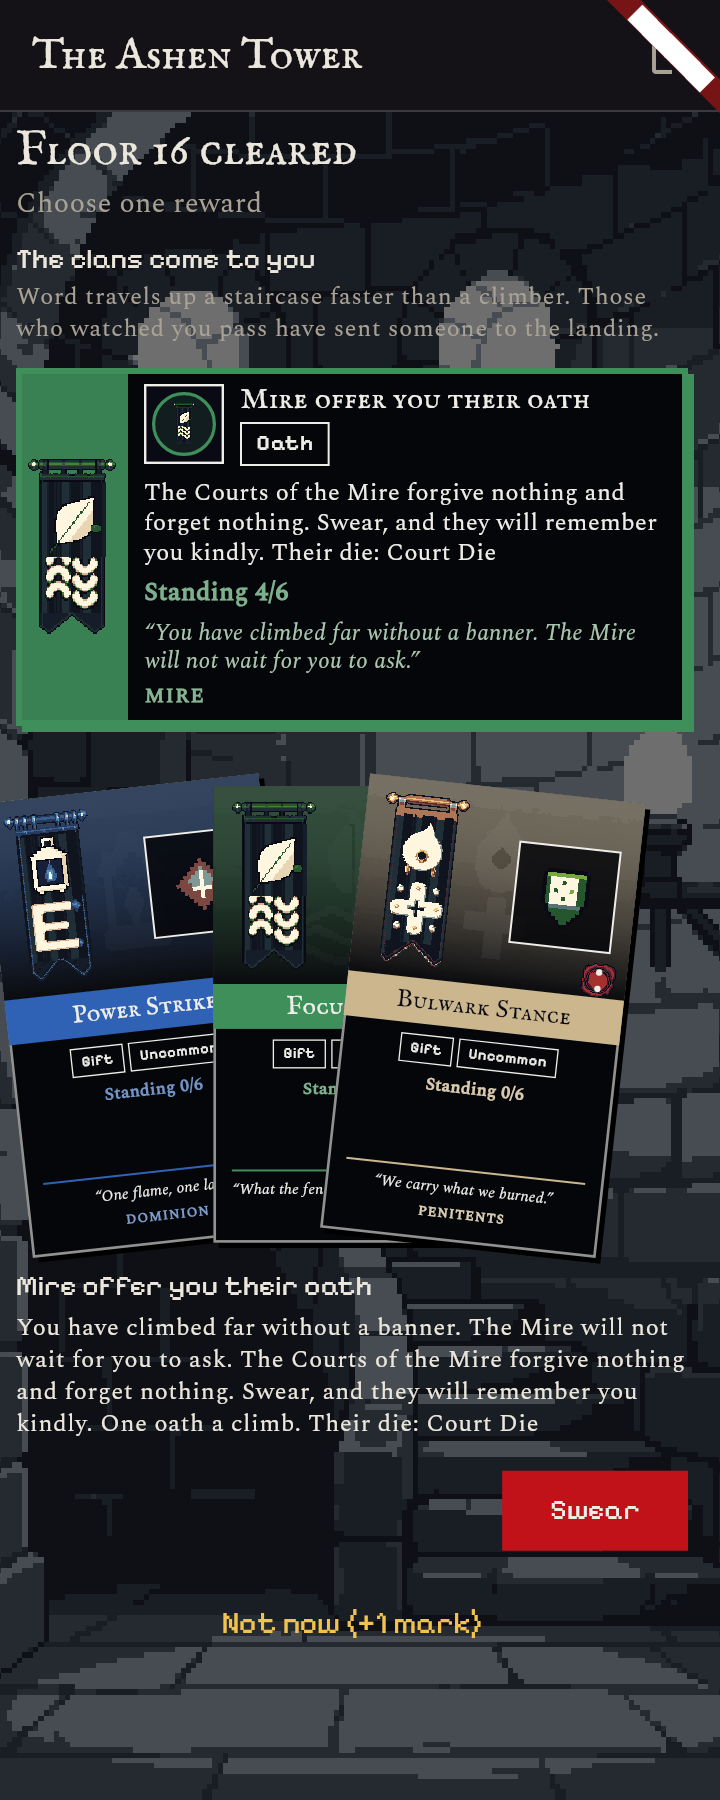
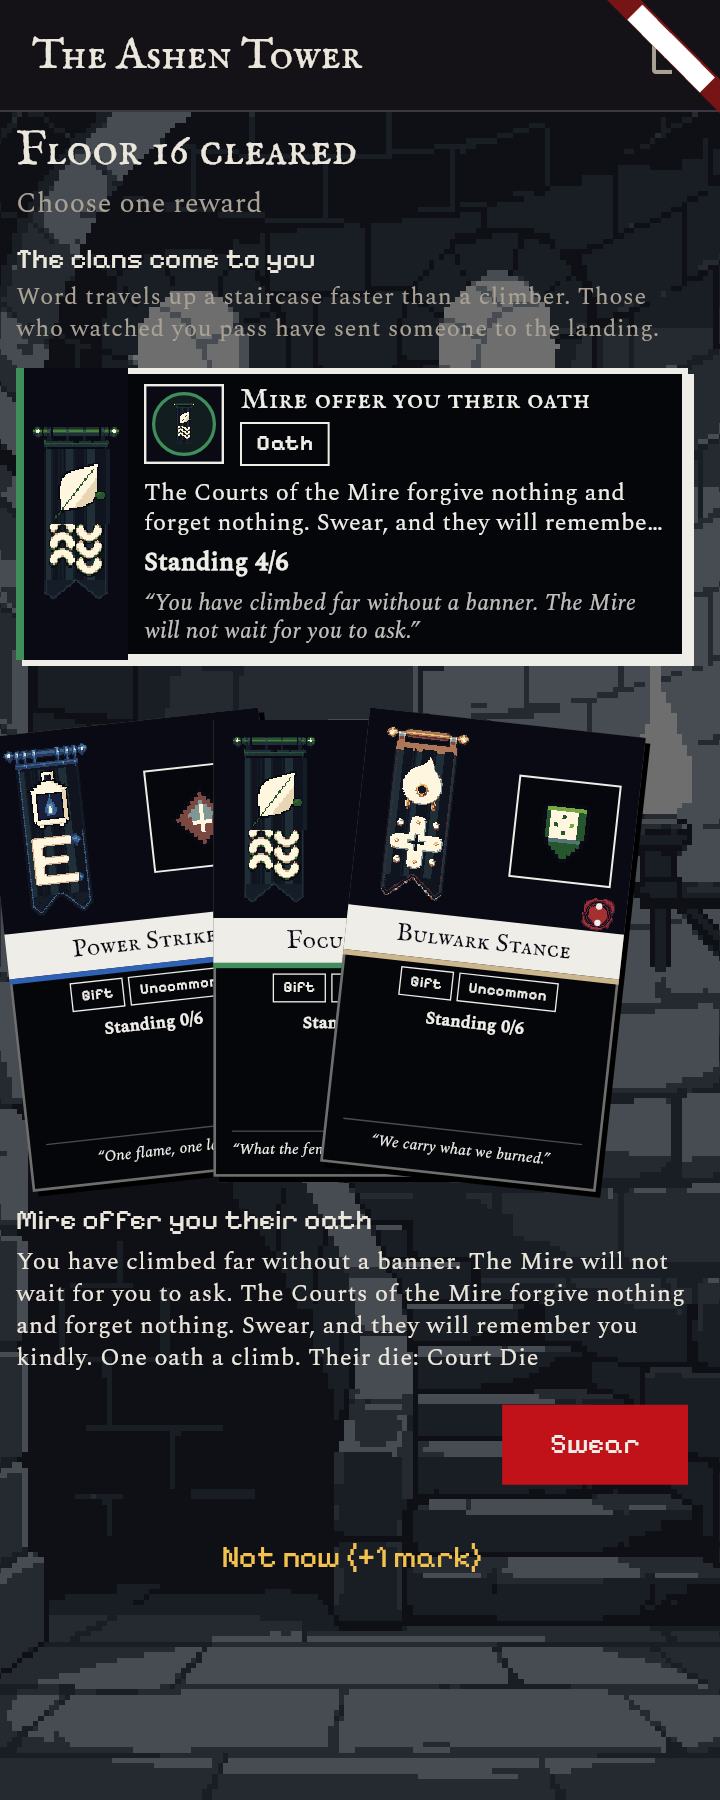
Tower clan cards toned down: ink and paper, clan colour one thin line
Claude-Session: https://claude.ai/code/session_019ETFw2Y7wpHSXWG5mmACty

diff --git a/lib/screens/tower/tower_clan_cards.dart b/lib/screens/tower/tower_clan_cards.dart
@@ -1,11 +1,13 @@
 // The Tower's clan offer cards in the ink look (the user: "update the card
-// design and look to match the ink design"): the story's banner card laid out
+// design and look to match the ink design", then "too colourful: ink and paper
+// only, the clan colour as one small spot"): the story's banner card laid out
 // the same way (the clan's banner at the left, the gift's plate at the right,
-// the name on a band in the clan's colour, the tags, the standing, the clan's
-// quote), but drawn as the Tower draws: a black body, a hard paper line, the
-// painted backdrop in greys, an ink plate for the picture and the rarity as
-// the tarot cards' wax seal. They are drawn at the story card's own 210 x 346
-// so the story's hand (clan_offer_gifts.dart, ClanHandFan) fans them.
+// the name on a band, the tags, the standing, the clan's quote), drawn as the
+// Tower draws: a black body, a hard paper line, an ink plate for the picture
+// and the rarity as the tarot cards' wax seal. The clan's colour is one thin
+// line under the name, and the banner's own. They are drawn at the story
+// card's own 210 x 346 so the story's hand (clan_offer_gifts.dart,
+// ClanHandFan) fans them.
 import 'package:flutter/material.dart';
 
 import '../../theme/stitched_ink.dart';
@@ -15,13 +17,6 @@ import 'tower_tarot_card.dart' show TowerSeal;
 
 const double towerClanCardWidth = 210;
 const double towerClanCardHeight = 346;
-
-const ColorFilter _grey = ColorFilter.matrix(<double>[
-  0.33, 0.33, 0.33, 0, 0, //
-  0.33, 0.33, 0.33, 0, 0, //
-  0.33, 0.33, 0.33, 0, 0, //
-  0, 0, 0, 1, 0,
-]);
 
 /// The text colour on a band of [colour]: ink on a light one, paper on a dark.
 Color towerOnBand(Color colour) =>
@@ -67,45 +62,22 @@ class TowerClanCard extends StatelessWidget {
         decoration: BoxDecoration(
           color: inkBlack,
           border: Border.all(
-              color: lit ? color : inkPaper.withValues(alpha: 0.6),
-              width: lit ? 4 : 2),
+              color: lit ? inkPaper : inkPaper.withValues(alpha: 0.45),
+              width: lit ? 3 : 2),
           boxShadow: [
             BoxShadow(
-                color: lit ? color : const Color(0xFF000000),
+                color: lit ? inkPaper : const Color(0xFF000000),
                 offset: const Offset(4, 4)),
           ],
         ),
         child: Stack(children: [
-          // The art zone: the clan's backdrop in greys under its colour.
-          Positioned(
+          // The art zone: plain ink, the banner and the plate on it.
+          const Positioned(
             left: 0,
             right: 0,
             top: 0,
             height: 150,
-            child: Stack(fit: StackFit.expand, children: [
-              if (backdropId != null)
-                ColorFiltered(
-                  colorFilter: _grey,
-                  child: Image.asset(
-                      'assets/visuals/cards/clans/backdrop_$backdropId.png',
-                      fit: BoxFit.cover,
-                      filterQuality: FilterQuality.none,
-                      errorBuilder: (_, __, ___) =>
-                          const ColoredBox(color: inkDark)),
-                ),
-              DecoratedBox(
-                decoration: BoxDecoration(
-                  gradient: LinearGradient(
-                    begin: Alignment.topCenter,
-                    end: Alignment.bottomCenter,
-                    colors: [
-                      color.withValues(alpha: 0.3),
-                      inkBlack.withValues(alpha: 0.8),
-                    ],
-                  ),
-                ),
-              ),
-            ]),
+            child: ColoredBox(color: inkDeep),
           ),
           Positioned(
               left: 14,
@@ -138,21 +110,28 @@ class TowerClanCard extends StatelessWidget {
             top: 150,
             height: 34,
             child: Container(
-              color: color,
+              color: inkPaper,
               alignment: Alignment.center,
               padding: const EdgeInsets.symmetric(horizontal: 8),
               child: FittedBox(
                 fit: BoxFit.scaleDown,
                 child: Text(name,
                     maxLines: 1,
-                    style: TextStyle(
+                    style: const TextStyle(
                         fontFamily: InkFonts.display,
                         fontSize: 19,
                         height: 1,
-                        color: towerOnBand(color))),
+                        color: inkOnPaper)),
               ),
             ),
           ),
+          // The clan's colour: one thin line under the name.
+          Positioned(
+              left: 0,
+              right: 0,
+              top: 184,
+              height: 4,
+              child: ColoredBox(color: color)),
           Positioned(
             left: 14,
             right: 14,
@@ -173,15 +152,15 @@ class TowerClanCard extends StatelessWidget {
                 Text(standing!,
                     maxLines: 1,
                     overflow: TextOverflow.ellipsis,
-                    style: TextStyle(
+                    style: const TextStyle(
                         fontFamily: InkFonts.prose,
                         fontWeight: FontWeight.w700,
                         fontSize: 13,
                         height: 1.1,
-                        color: Color.lerp(color, inkPaper, 0.35))),
+                        color: inkPaper)),
               ],
               const Spacer(),
-              Container(height: 1.5, color: color),
+              Container(height: 1, color: inkPaper.withValues(alpha: 0.3)),
               const SizedBox(height: 6),
               Text(greeting.isEmpty ? '' : '“$greeting”',
                   textAlign: TextAlign.center,
@@ -193,16 +172,6 @@ class TowerClanCard extends StatelessWidget {
                       fontSize: 11.5,
                       height: 1.25,
                       color: inkPaper)),
-              const SizedBox(height: 6),
-              Text(clanName.toUpperCase(),
-                  maxLines: 1,
-                  overflow: TextOverflow.ellipsis,
-                  style: TextStyle(
-                      fontFamily: InkFonts.prose,
-                      fontWeight: FontWeight.w700,
-                      fontSize: 10,
-                      letterSpacing: 0.8,
-                      color: Color.lerp(color, inkPaper, 0.4))),
             ]),
           ),
         ]),
@@ -249,20 +218,25 @@ class TowerClanOathRow extends StatelessWidget {
         decoration: BoxDecoration(
           color: inkBlack,
           border: Border.all(
-              color: selected ? color : inkPaper.withValues(alpha: 0.6),
+              color: selected ? inkPaper : inkPaper.withValues(alpha: 0.45),
               width: selected ? 3 : 2),
           boxShadow: [
             BoxShadow(
-                color: selected ? color : const Color(0xFF000000),
+                color: selected ? inkPaper : const Color(0xFF000000),
                 offset: const Offset(3, 3)),
           ],
         ),
         child: IntrinsicHeight(
           child: Row(crossAxisAlignment: CrossAxisAlignment.stretch, children: [
+            // The banner on plain ink, the clan's colour one thin line beside it.
             Container(
-              width: 56,
+              width: 4,
+              color: color,
+            ),
+            Container(
+              width: 52,
               padding: const EdgeInsets.symmetric(vertical: 6),
-              color: color.withValues(alpha: 0.9),
+              color: inkDeep,
               alignment: Alignment.center,
               child: SizedBox(
                   height: 88,
@@ -310,7 +284,7 @@ class TowerClanOathRow extends StatelessWidget {
                           ]),
                       const SizedBox(height: 6),
                       Text(text,
-                          maxLines: 3,
+                          maxLines: 2,
                           overflow: TextOverflow.ellipsis,
                           style: const TextStyle(
                               fontFamily: InkFonts.prose,
@@ -321,11 +295,11 @@ class TowerClanOathRow extends StatelessWidget {
                         Padding(
                           padding: const EdgeInsets.only(top: 3),
                           child: Text(standing!,
-                              style: TextStyle(
+                              style: const TextStyle(
                                   fontFamily: InkFonts.prose,
                                   fontWeight: FontWeight.w700,
                                   fontSize: 12.5,
-                                  color: Color.lerp(color, inkPaper, 0.35))),
+                                  color: inkPaper)),
                         ),
                       if (greeting.isNotEmpty)
                         Padding(
@@ -338,18 +312,8 @@ class TowerClanOathRow extends StatelessWidget {
                                   fontStyle: FontStyle.italic,
                                   fontSize: 11.5,
                                   height: 1.25,
-                                  color: Color.lerp(color, inkPaper, 0.6))),
+                                  color: inkPaper.withValues(alpha: 0.8))),
                         ),
-                      Padding(
-                        padding: const EdgeInsets.only(top: 4),
-                        child: Text(clanName.toUpperCase(),
-                            style: TextStyle(
-                                fontFamily: InkFonts.prose,
-                                fontWeight: FontWeight.w700,
-                                fontSize: 10,
-                                letterSpacing: 0.8,
-                                color: Color.lerp(color, inkPaper, 0.4))),
-                      ),
                     ]),
               ),
             ),

diff --git a/lib/screens/tower/tower_offer_view.dart b/lib/screens/tower/tower_offer_view.dart
@@ -3,6 +3,7 @@
 // the one in hand ringed and the others dimmed, Take for the card in hand,
 // or leave them all for a mark.
 import 'package:flutter/material.dart';
+import 'package:flutter/rendering.dart' show ScrollCacheExtent;
 import 'package:flutter_riverpod/flutter_riverpod.dart';
 
 import '../../combat/dice_faces.dart' show skillDisplayName;
@@ -500,7 +501,7 @@ class _TowerOfferViewState extends ConsumerState<TowerOfferView> {
         .any((r) => r.clan.isNotEmpty || r.kind == TowerRewardKind.clanOath);
     return ListView(
       // The clans' table is tall: its Not now stays built below the fold.
-      cacheExtent: 1600,
+      scrollCacheExtent: const ScrollCacheExtent.pixels(1600),
       padding: const EdgeInsets.fromLTRB(8, 4, 16, 24),
       children: [
         Text(tr(ref, 'tower_cleared').replaceAll('{n}', '${widget.run.floor}'),

diff --git a/docs/ux-shots/clan-offer-cards/README.md b/docs/ux-shots/clan-offer-cards/README.md
@@ -1,5 +1,7 @@
 # Tower clan offers in the story's banner-and-card look (picture first, no PR)
 
+Toned down (user: "too colourful"): ink and paper only, the clan colour is one thin line; banner, late-oath line and wax seal kept. Sheet: `ink-cards.png` (EN 412, FR 360, a gift in hand).
+
 The user's call: "for the propositions from clan keep the banner card style choice from story". Built on a branch (`claude/ux-2-clan-offer-cards`, from main v2.8.1) so the pictures are the real screen; no version, no PR until the user approves (the build would be v2.8.2+1071).
 
 `compare-<width>-<lang>.png` (412 and 360, English and French): the floor-16 table (the oath and three gifts) before (the dark rows) | after | after with a gift in hand. `before-*`, `after-*` are the same screens alone; `after-pity-fr-320-1.3x.png` is the tightest case (320 wide, French, text 1.3x): no overflow.
